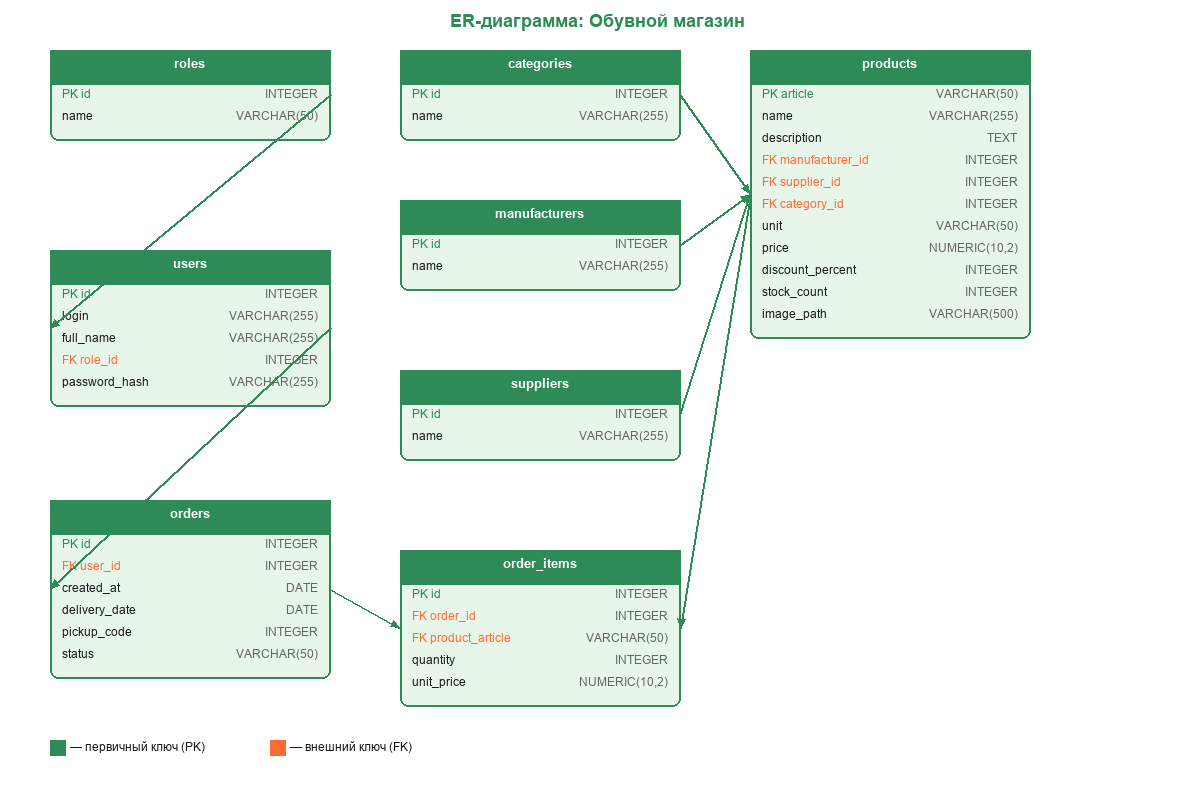
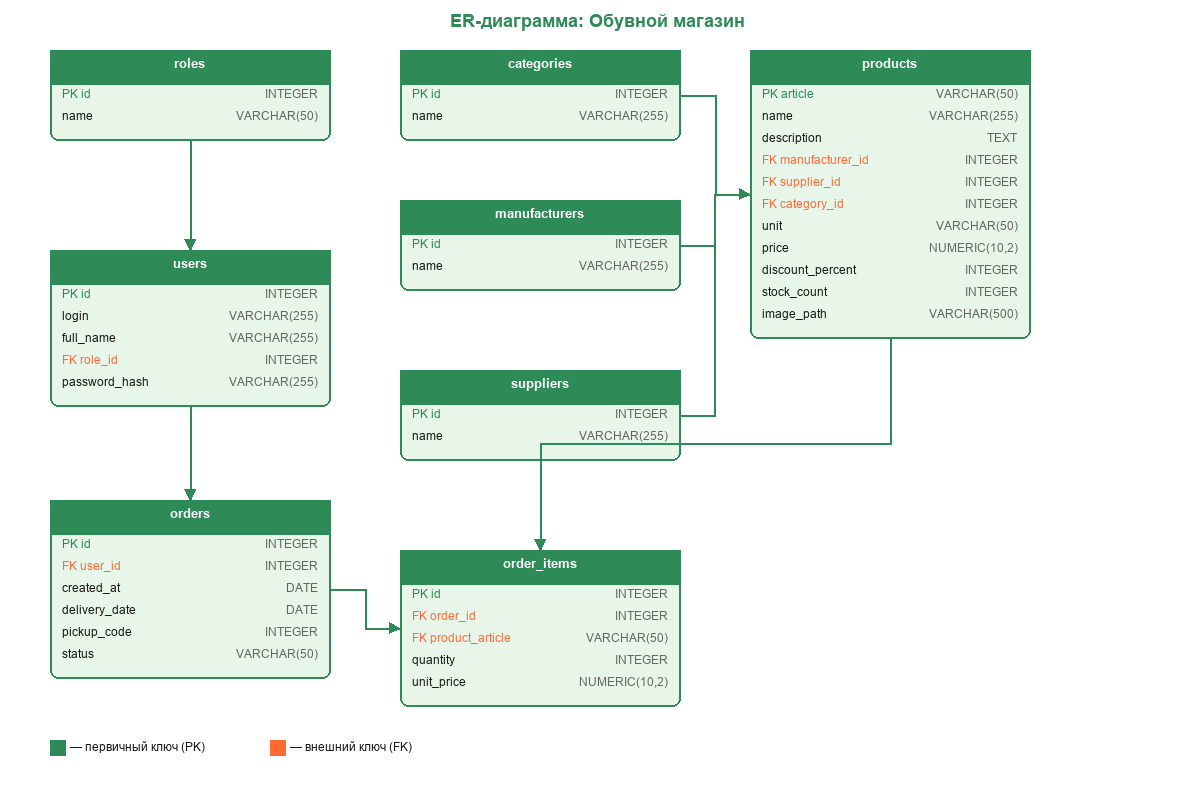
fix erd connectors

diff --git a/solution/database/generate_erd.py b/solution/database/generate_erd.py
@@ -23,6 +23,59 @@ COL_GAP = 60
 ROW_GAP = 80
 
 
+def center(box):
+    x, y, w, h = box
+    return x + w / 2, y + h / 2
+
+
+def anchor_point(box, toward_x, toward_y):
+    """выбираем точку привязки на границе таблицы."""
+    x, y, w, h = box
+    cx, cy = center(box)
+    dx = toward_x - cx
+    dy = toward_y - cy
+
+    if abs(dx) >= abs(dy):
+        if dx >= 0:
+            return x + w, cy, "right"
+        return x, cy, "left"
+
+    if dy >= 0:
+        return cx, y + h, "bottom"
+    return cx, y, "top"
+
+
+def route_points(src_box, dst_box):
+    """строим ортогональный маршрут между таблицами."""
+    sx, sy = center(src_box)
+    dx, dy = center(dst_box)
+    start_x, start_y, start_side = anchor_point(src_box, dx, dy)
+    end_x, end_y, end_side = anchor_point(dst_box, sx, sy)
+
+    points = [(start_x, start_y)]
+
+    # если соединяем одинаковые стороны, делаем аккуратный внешний обход
+    if start_side in {"left", "right"} and end_side in {"left", "right"}:
+        mid_x = (start_x + end_x) / 2
+        points.extend([(mid_x, start_y), (mid_x, end_y)])
+    elif start_side in {"top", "bottom"} and end_side in {"top", "bottom"}:
+        mid_y = (start_y + end_y) / 2
+        points.extend([(start_x, mid_y), (end_x, mid_y)])
+    else:
+        # смешанный случай: сначала уходим от таблицы по нормали, потом выравниваемся
+        if start_side in {"left", "right"}:
+            offset = 28 if start_side == "right" else -28
+            bend_x = start_x + offset
+            points.extend([(bend_x, start_y), (bend_x, end_y)])
+        else:
+            offset = 28 if start_side == "bottom" else -28
+            bend_y = start_y + offset
+            points.extend([(start_x, bend_y), (end_x, bend_y)])
+
+    points.append((end_x, end_y))
+    return points
+
+
 def text_size(draw, text, font):
     bbox = draw.textbbox((0, 0), text, font=font)
     return bbox[2] - bbox[0], bbox[3] - bbox[1]
@@ -61,17 +114,24 @@ def draw_table(draw, x, y, name, columns, font, header_font):
     return h
 
 
-def draw_arrow(draw, x1, y1, x2, y2):
-    """рисуем линию связи."""
-    draw.line([(x1, y1), (x2, y2)], fill=LINE_COLOR, width=2)
-    # стрелка
+def draw_arrow(draw, points):
+    """рисуем ломаную связь со стрелкой на конце."""
+    if len(points) < 2:
+        return
+
+    draw.line(points, fill=LINE_COLOR, width=2)
+
+    # стрелка по последнему сегменту, чтобы наконечник был всегда в конце связи
     import math
+
+    (x1, y1), (x2, y2) = points[-2], points[-1]
     angle = math.atan2(y2 - y1, x2 - x1)
-    arrow_len = 10
-    ax = x2 - arrow_len * math.cos(angle - 0.4)
-    ay = y2 - arrow_len * math.sin(angle - 0.4)
-    bx = x2 - arrow_len * math.cos(angle + 0.4)
-    by = y2 - arrow_len * math.sin(angle + 0.4)
+    arrow_len = 12
+    arrow_angle = 0.45
+    ax = x2 - arrow_len * math.cos(angle - arrow_angle)
+    ay = y2 - arrow_len * math.sin(angle - arrow_angle)
+    bx = x2 - arrow_len * math.cos(angle + arrow_angle)
+    by = y2 - arrow_len * math.sin(angle + arrow_angle)
     draw.polygon([(x2, y2), (int(ax), int(ay)), (int(bx), int(by))], fill=LINE_COLOR)
 
 
@@ -183,18 +243,10 @@ def main():
 
     # рисуем связи
     for src, dst in edges:
-        sx, sy, sw, sh = table_boxes[src]
-        dx, dy, dw, dh = table_boxes[dst]
-        # центры таблиц
-        cx1 = sx + sw
-        cy1 = sy + sh // 2
-        cx2 = dx
-        cy2 = dy + dh // 2
-        # если источник правее — корректируем
-        if sx > dx:
-            cx1 = sx
-            cx2 = dx + dw
-        draw_arrow(draw, cx1, cy1, cx2, cy2)
+        src_box = table_boxes[src]
+        dst_box = table_boxes[dst]
+        points = route_points(src_box, dst_box)
+        draw_arrow(draw, points)
 
     # легенда
     lx, ly = 50, img_h - 60
